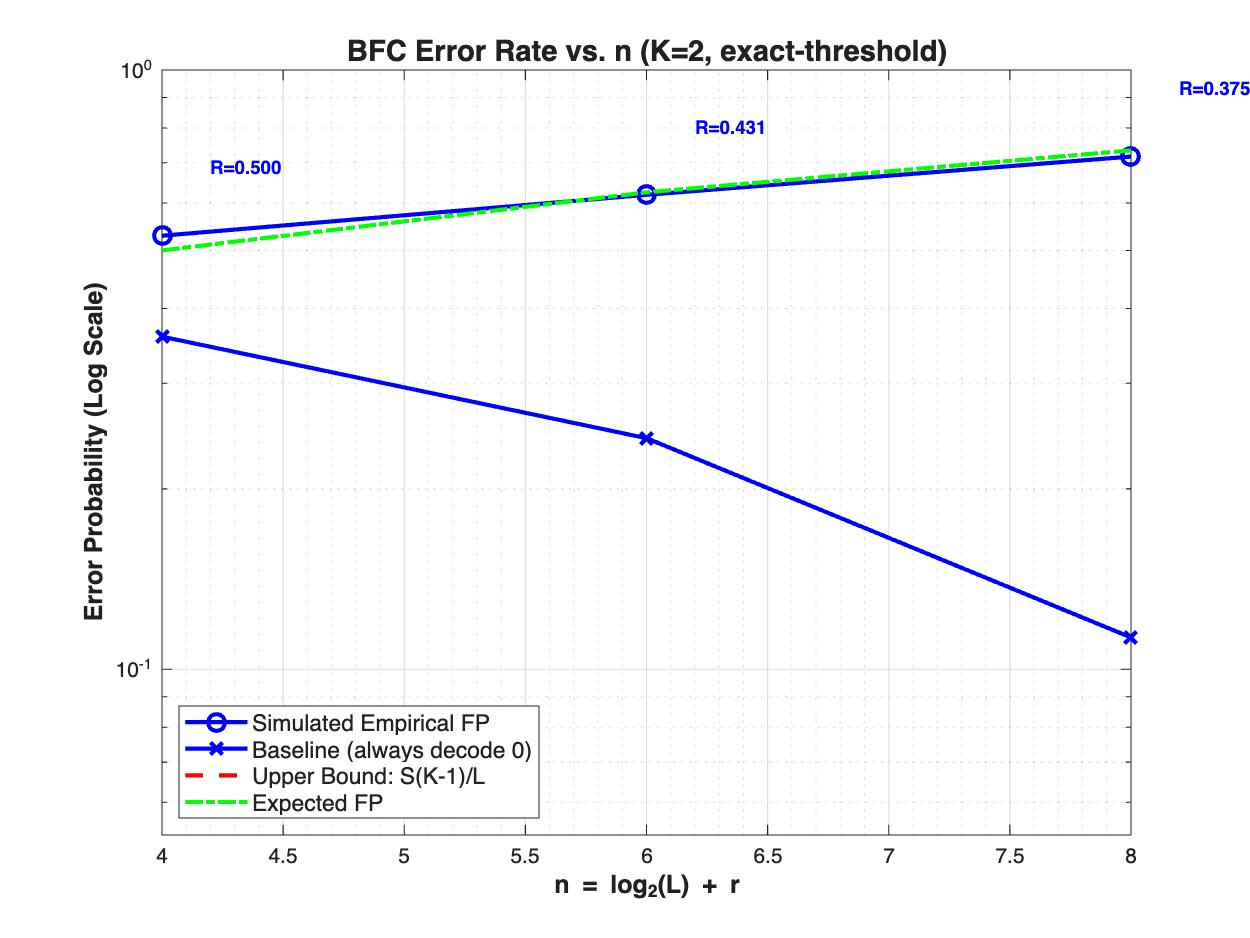
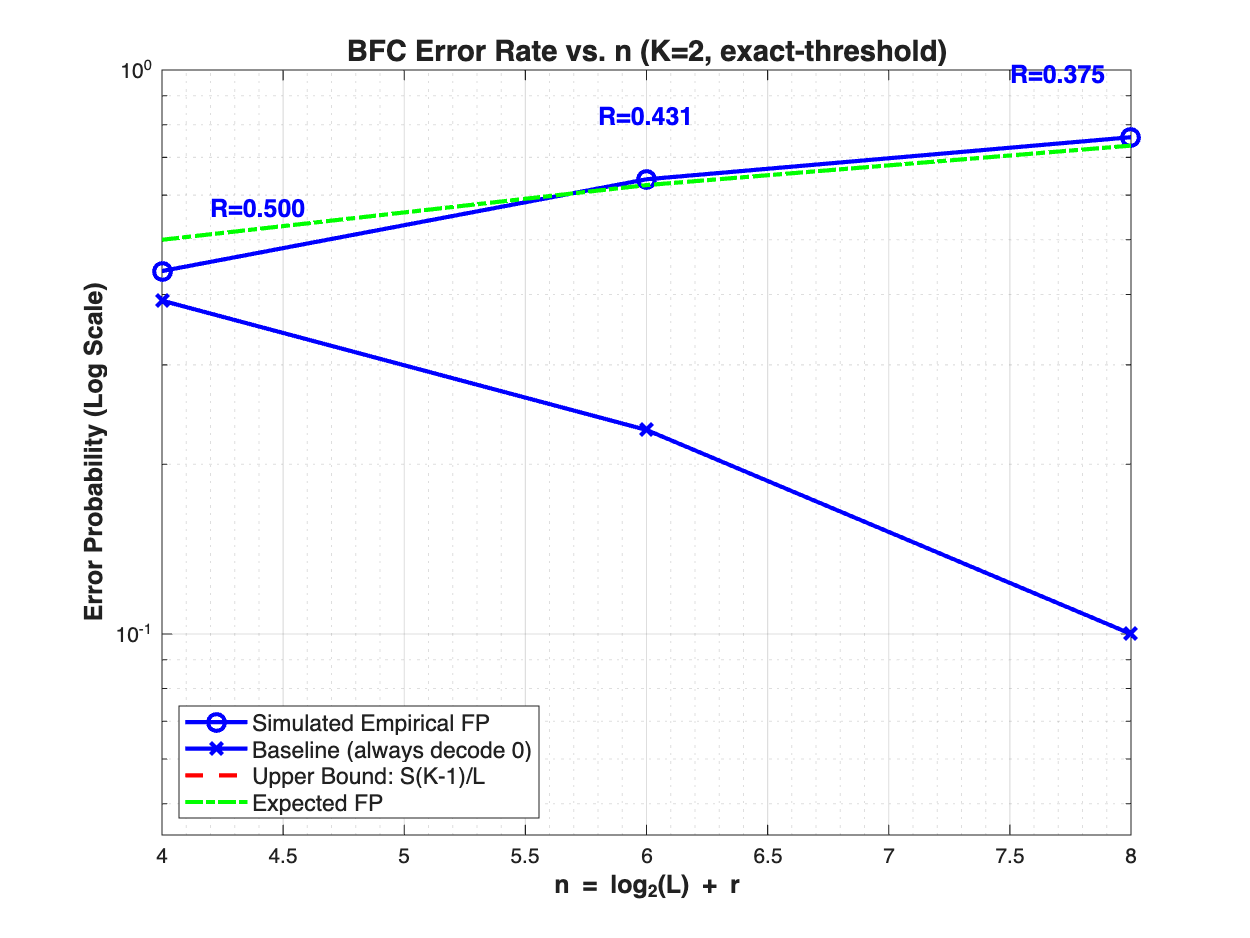
0623, mbp, fix bugs

diff --git a/main_plot_error_rates_r_vec.m b/main_plot_error_rates_r_vec.m
@@ -12,7 +12,7 @@ tic
 % We MUST choose K=2 so that max(n) = log2(2^r - 1) + r ~ 2r = m
 L = 10;
 K = 4;           % Number of symbols
-r_list_sim = 2:17;  % start from at least L <= 2^r - 1
+r_list_sim = 2:18;  % start from at least L <= 2^r - 1
 num_trials = 10000000; % High trials since our vectorized Monte Carlo is fast
 
 
@@ -59,7 +59,7 @@ for i = 1:length(r_list_sim)
     % calculate expected FP rate based on D_ratio (for debugging)
     expected_FP_rates(i) = mean(D_ratio) - S_curr / 2^m;
     
-    sim_rates(i) = rate_calculation(n, m, func_type);
+    sim_rates(i) = rate_calculation(sim_n_vals(i), m, func_type);
     fprintf('Rate: %.6f\n', sim_rates(i));
     
     sim_S_weights(i) = S_curr;
@@ -100,10 +100,7 @@ for i = 1:length(sim_n_vals)
     if sim_error_prob(i) > 0
         % Offset X slightly to the right (+0.2)
         % Multiply Y by 1.3 to push it visually "up" on the log scale
-        if i == length(sim_n_vals) % For the last point, offset to the left instead to avoid going out of bounds
-            text(sim_n_vals(i) - 0.2, sim_error_prob(i) * 1.3, sprintf('R=%.3f', sim_rates(i)), 'Color', 'b', 'FontSize', 12, 'FontWeight', 'bold');
-        else
-            text(sim_n_vals(i) + 0.2, sim_error_prob(i) * 1.3, sprintf('R=%.3f', sim_rates(i)), 'Color', 'b', 'FontSize', 12, 'FontWeight', 'bold');
+        text(sim_n_vals(i) - 0.2, sim_error_prob(i) * 0.8, sprintf('R=%.3f', sim_rates(i)), 'Color', 'b', 'FontSize', 12, 'FontWeight', 'bold');
     end
 end
 
@@ -113,11 +110,11 @@ grid minor;
 xlabel('n = log_2(L) + r', 'FontSize', 12, 'FontWeight', 'bold');
 ylabel('Error Probability (Log Scale)', 'FontSize', 12, 'FontWeight', 'bold');
 title(sprintf('BFC Error Rate vs. n (L=%d, K=%d, %s)', L, K, func_type), 'FontSize', 14);
-legend('Location', 'southwest', 'FontSize', 11);
+legend('Location', 'southeast', 'FontSize', 11);
 xlim([floor(sim_n_vals(1)), ceil(sim_n_vals(end))]);
 
 % Enforce limits to make the plot visually clean
-ylim([max(1e-6, min(sim_error_prob(sim_error_prob>0)) * 0.1), 1]);
+ylim([max(1e-6, min(sim_error_prob(sim_error_prob>0)) * 0.1), 1.1]);
 saveas(gcf, sprintf('BFC_Error_Rates_%s_L%d_K%d_vec.png', func_type, L, K));
 
 fprintf('\n=== Simulation Complete ===\nPlot has been generated.\n');

diff --git a/main_plot_error_rates_L_vec.m b/main_plot_error_rates_L_vec.m
@@ -16,7 +16,7 @@ m = r * K;       % Total message length in bits
 num_trials = 10000000; % High trials since our vectorized Monte Carlo is fast
 
 % Specific L values to simulate (up to the RS max limit of 2^r)
-L_list_sim = [4,8,16,32,64,128,256,512,1024]; 
+L_list_sim = 2.^(2:r); 
 
 
 % 'id (Constant weight S=1)' 
@@ -61,9 +61,9 @@ for i = 1:length(L_list_sim)
     D_ratio = D_ratio_all(1:L);
 
     % calculate expected FP rate based on D_ratio (for debugging)
-    expected_FP_rates(i) = mean(D_ratio) - S_curr / 2^m;
+    expected_FP_rates(i) = mean(D_ratio) - S_weight / 2^m;
     
-    sim_rates(i) = rate_calculation(n, m, func_type);
+    sim_rates(i) = rate_calculation(sim_n_vals(i), m, func_type);
     fprintf('Rate: %.6f\n', sim_rates(i));
     
     
@@ -105,10 +105,8 @@ for i = 1:length(sim_n_vals)
     if sim_error_prob(i) > 0
         % Offset X slightly to the right (+0.2)
         % Multiply Y by 1.3 to push it visually "up" on the log scale
-        if i == length(sim_n_vals) % For the last point, offset to the left instead to avoid going out of bounds
-            text(sim_n_vals(i) - 0.2, sim_error_prob(i) * 1.3, sprintf('R=%.3f', sim_rates(i)), 'Color', 'b', 'FontSize', 12, 'FontWeight', 'bold');
-        else
-            text(sim_n_vals(i) + 0.2, sim_error_prob(i) * 1.3, sprintf('R=%.3f', sim_rates(i)), 'Color', 'b', 'FontSize', 12, 'FontWeight', 'bold');
+        text(sim_n_vals(i)-0.2, sim_error_prob(i) * 1.5, sprintf('R=%.2f', sim_rates(i)), 'Color', 'b', 'FontSize', 8, 'FontWeight', 'bold');
+
     end
 end
 

diff --git a/main_plot_error_rates_n_vec.m b/main_plot_error_rates_n_vec.m
@@ -103,9 +103,12 @@ for i = 1:length(n_list_sim)
         % Offset X slightly to the right (+0.2)
         % Multiply Y by 1.3 to push it visually "up" on the log scale
         if i == length(n_list_sim) % For the last point, offset to the left instead to avoid going out of bounds
-            text(n_list_sim(i) - 0.2, sim_error_prob(i) * 1.3, sprintf('R=%.3f', sim_rates(i)), 'Color', 'b', 'FontSize', 12, 'FontWeight', 'bold');
-        else
+            text(n_list_sim(i) - 0.5, sim_error_prob(i) * 1.3, sprintf('R=%.3f', sim_rates(i)), 'Color', 'b', 'FontSize', 12, 'FontWeight', 'bold');
+        elseif i == 1
             text(n_list_sim(i) + 0.2, sim_error_prob(i) * 1.3, sprintf('R=%.3f', sim_rates(i)), 'Color', 'b', 'FontSize', 12, 'FontWeight', 'bold');
+        else
+            text(n_list_sim(i) - 0.2, sim_error_prob(i) * 1.3, sprintf('R=%.3f', sim_rates(i)), 'Color', 'b', 'FontSize', 12, 'FontWeight', 'bold');
+        end
     end
 end
 